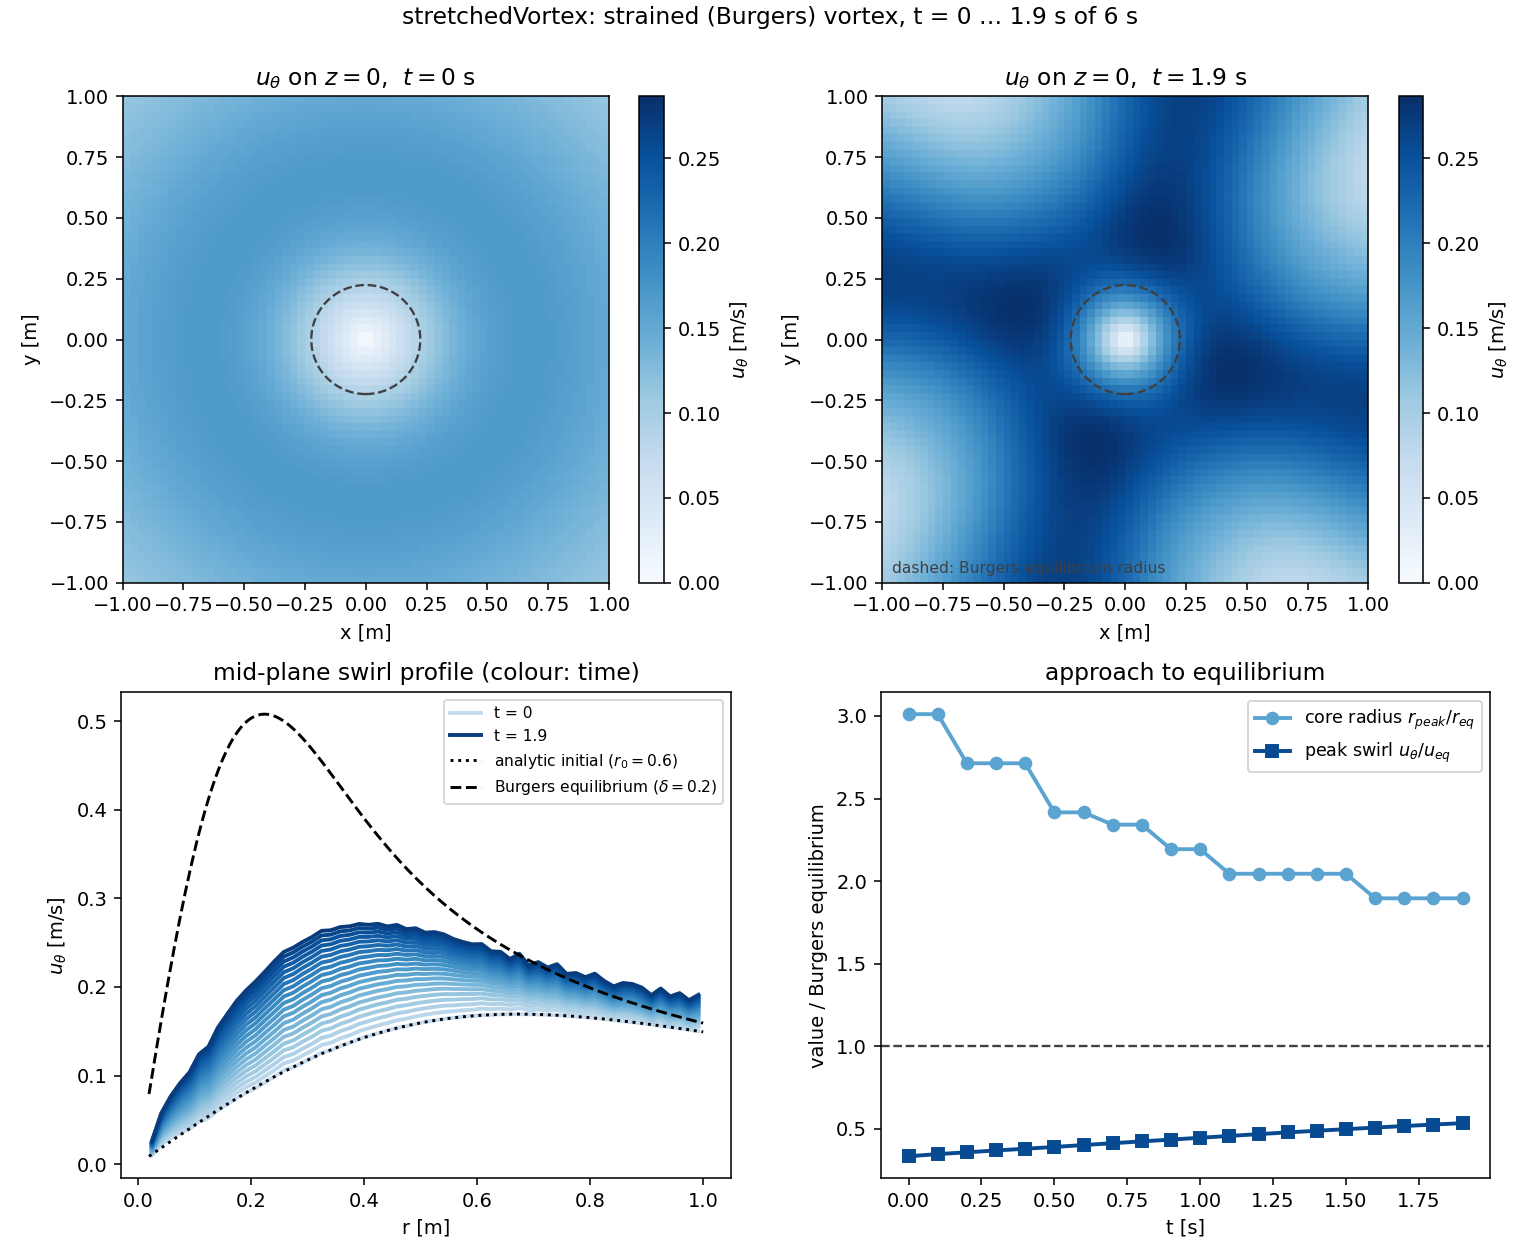
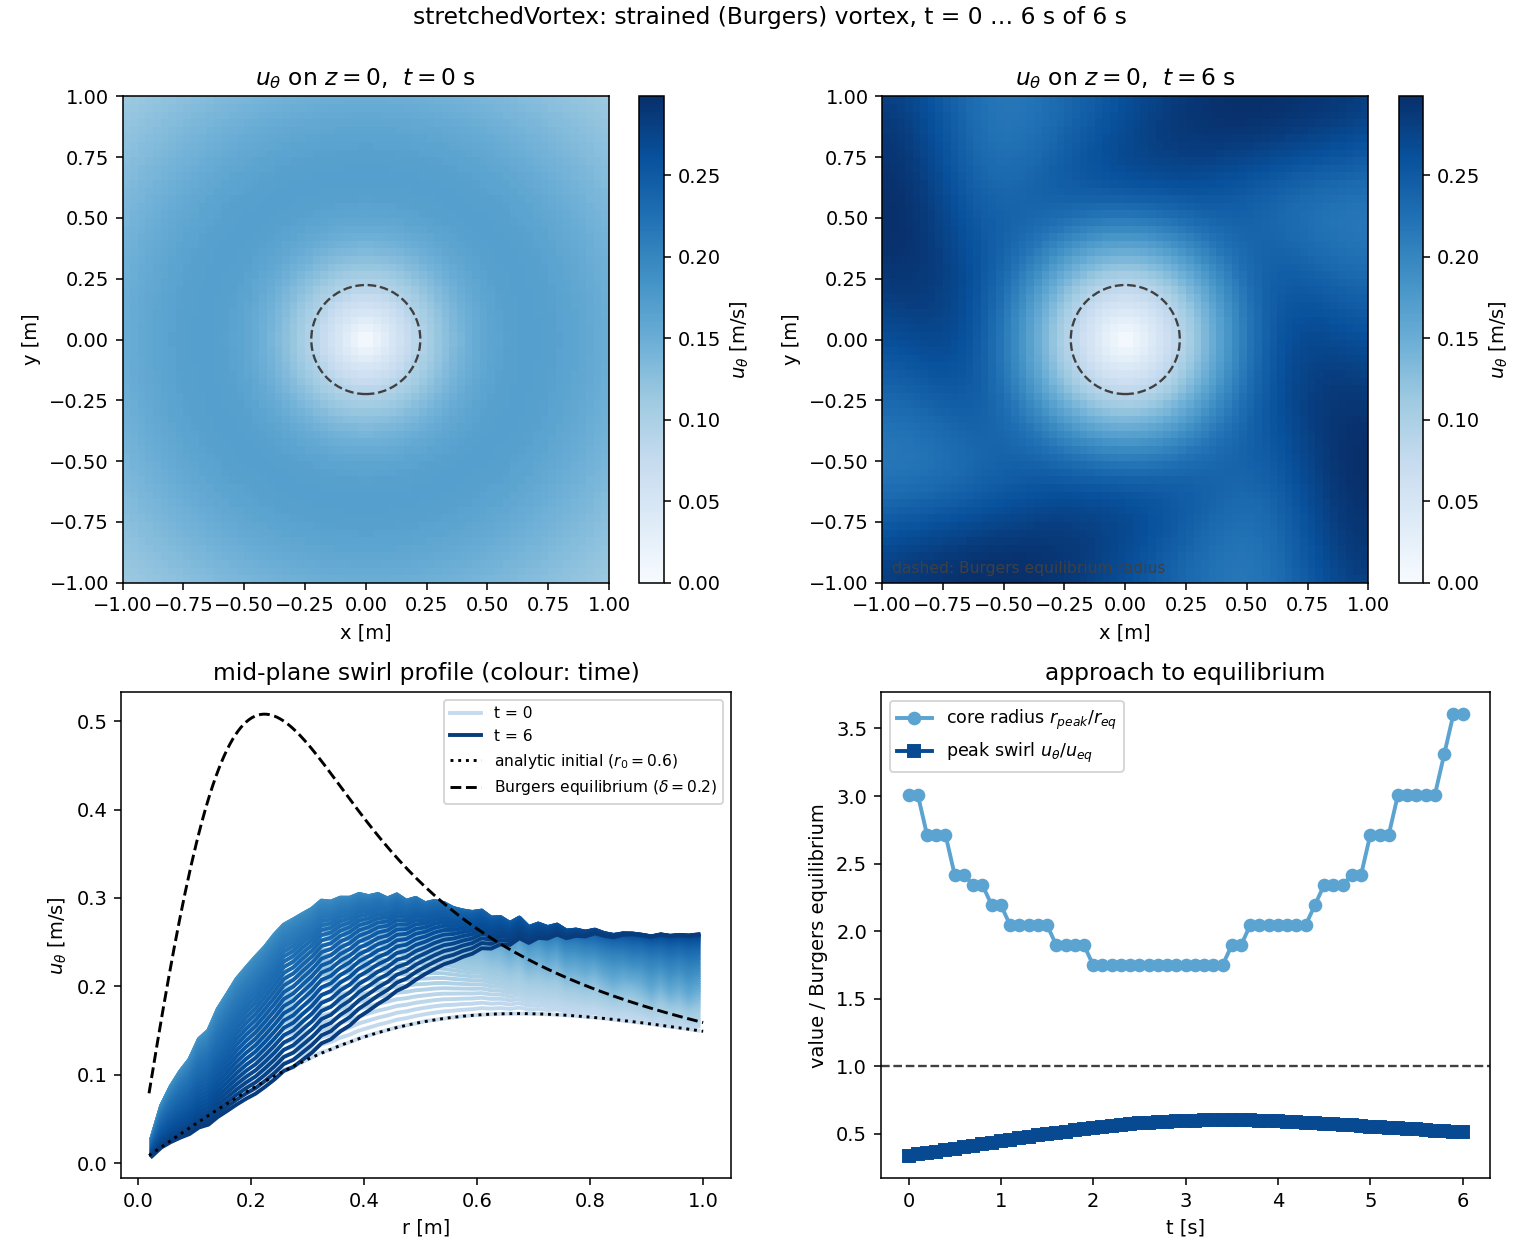
Update stretchedVortex figures with the completed run
Full run to t = 6 on 4 ranks. The core contracts as predicted for ~3 s, then
reverses: the imposed axial strain decays to 4 % of a z by t = 6 while the
fixedValue side patches are unchanged. An icoFoam run with the identical mesh,
BCs and schemes holds the strain exactly, so the README documents the
discrepancy alongside the figures.

Claude-Session: https://claude.ai/code/session_01NzEWhqzvNRLC4i4NWCGwHw

diff --git a/tutorials/neoIcoFoam/stretchedVortex/README.md b/tutorials/neoIcoFoam/stretchedVortex/README.md
@@ -112,25 +112,35 @@ viscosity opposing it. That is worth being able to look at.
 
 ## Results
 
-Run with `NPROCS=4 ./Allrun -par`. The figures cover the first 2 s of the 6 s run.
+Run to `endTime 6` on 4 ranks (`NPROCS=4 ./Allrun -par`).
 
 ![mid-plane swirl and approach to equilibrium](doc/vortexOverview.png)
 
-The core contracts (`r_peak` 0.675 -> 0.425) and the swirl amplifies
-(`u_theta` 0.169 -> 0.271, a factor 1.6) monotonically, as predicted. Two strain
-times is not yet enough to settle onto `delta = 0.2`.
+The core contracts and the swirl amplifies as predicted for the first ~3 s
+(`r_peak` 0.675 -> 0.392, `u_theta` 0.169 -> 0.303), but it stalls well short of
+the equilibrium `delta = 0.2` and then reverses: by `t = 6` the core has spread
+back to `r_peak = 0.808` and the peak swirl has fallen to 0.260.
 
 ![meridional structure](doc/vortexStructure.png)
 
-The meridional plane shows the expected Burgers topology: radial inflow at the
-sides, a dividing layer at `z = 0`, axial outflow towards top and bottom, and
-`u_z = a z` as imposed.
+The meridional plane still shows the Burgers topology -- radial inflow at the
+sides, a dividing layer at `z = 0`, axial outflow towards top and bottom -- but
+weaker than imposed.
 
-## Caveat
+## Caveat: the imposed strain is not maintained
 
-The square domain with an analytic `fixedValue` inflow on its sides is not
-axisymmetric -- corners sit at `r = 1.4`, mid-edges at `r = 1.0` -- and the
-mismatch propagates inwards as a four-lobed pattern. On the ring `r = 0.95` the
-azimuthal spread of `u_theta` is 0.152-0.156 at `t = 0` but 0.10-0.25 at
-`t = 1`. The core is still clean at `t = 2`, but the outer field is not; a wider
-box or a cylindrical mesh would remove it.
+The reversal is not the physics; the driving strain decays away. The mean `u_z`
+on the `z = 0.39` plane should stay at `a z`, and it does not: it drops by half
+within the first write interval and reaches 4 % of the imposed value by `t = 6`,
+even though the `fixedValue` side patches are unchanged. The same case run with
+OpenFOAM's `icoFoam` (identical mesh, boundary conditions and schemes -- set
+`application icoFoam` and re-run) holds the strain at `a z` to machine accuracy
+and contracts the core faster, reaching `r_peak = 0.325` at `t = 2` where
+`neoIcoFoam` reaches 0.392.
+
+![strain comparison](doc/strainComparison.png)
+
+A second, smaller issue is the square domain itself: the analytic `fixedValue`
+inflow on its sides is not axisymmetric -- corners sit at `r = 1.4`, mid-edges at
+`r = 1.0` -- and the mismatch propagates inwards as a four-lobed pattern in the
+outer field. A wider box or a cylindrical mesh would remove that one.
